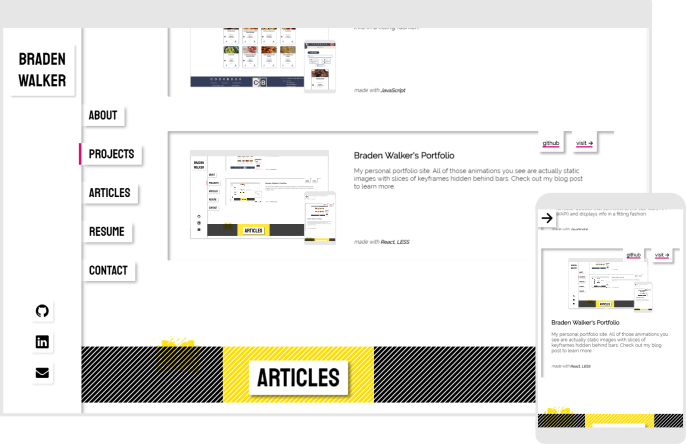
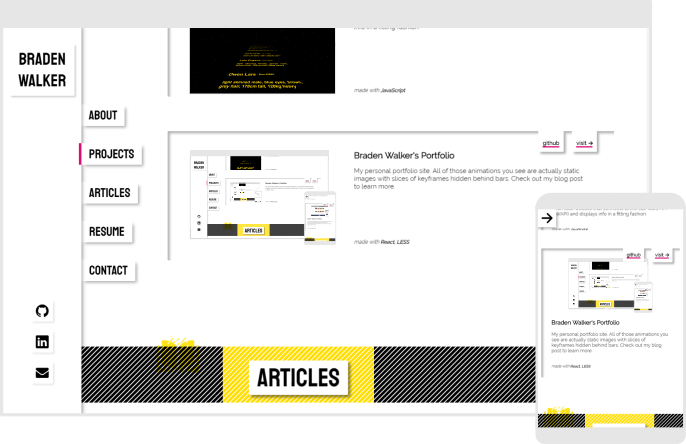
make article images cover size

Changed region(s): [[0.2755, 0.0586, 0.4898, 0.2342], [0.3367, 0.3514, 0.398, 0.3806], [0.8571, 0.5856, 0.8878, 0.6149]]

diff --git a/braden-walker-portfolio/src/resources/resourceArrays.js b/braden-walker-portfolio/src/resources/resourceArrays.js
@@ -1,7 +1,14 @@
 import cookbook from './project_images/cookbook.png';
+import notes from './project_images/notes.png';
 import portfolio from './project_images/portfolio.png';
+import starWars from './project_images/starWars.png';
+import monaLisa from './project_images/monaLisa.png';
 
 import article from './article_images/article.jpg';
+import brain from './article_images/brain.jpg';
+import business_computer from './article_images/business-computer.jpg';
+import flier from './article_images/flier.jpg';
+import web_developer from './article_images/web-developer.jpg';
 
 import github from './contacts/github-logo.svg';
 import linkedin from './contacts/linkedin-logo.svg';
@@ -22,7 +29,7 @@ export const projectsArray = [
         "id": 1,
         "title": "Note Taker",
         "description": "A note taking app that lets you create, view, edit, and delete notes. Special Features include user accounts, markdown, support, searching, and sorting notes.",
-        "image": cookbook,
+        "image": notes,
         "tools": ["React", "Express", "MongoDB"],
         "github": "https://github.com/Bradiowave/back-end-project-week",
         "visit": "https://note-taker.netlify.com/",
@@ -32,7 +39,7 @@ export const projectsArray = [
         "id": 2,
         "title": "Graph Mona Lisa",
         "description": "This program creates a graph with random vertices. The position of each vertex determines its color, which match da Vinci's famous painting, the \"Mona Lisa\".",
-        "image": cookbook,
+        "image": monaLisa,
         "tools": ["Python"],
         "github": "https://github.com/Bradiowave/Sprint-Challenge--Graphs/tree/master/graph_shortest_path",
         "visit": null,
@@ -42,7 +49,7 @@ export const projectsArray = [
         "id": 3,
         "title": "Star Wars API Viewer",
         "description": "A fun little website that connects to the star wars API (SWAPI) and displays info in a fitting fashion.",
-        "image": cookbook,
+        "image": starWars,
         "tools": ["JavaScript"],
         "github": "https://github.com/Bradiowave/Sprint-Challenge---React",
         "visit": null,
@@ -73,7 +80,7 @@ export const articlesArray = [
         "id": 1,
         "title": "This Article Has a Really Long Title, and There's Nothing You Can Do To Stop It",
         "description": "Lorem ipsum dolor sit amet, consectetur adipiscing elit, sed do eiusmod",
-        "image": article,
+        "image": brain,
         "date": "December 13, 2018",
         "read": "https://braden-blog.netlify.com/posts/lambda-labs-sprint-challenge-5/",
     },
@@ -82,7 +89,7 @@ export const articlesArray = [
         "id": 2,
         "title": "Short Test",
         "description": "This blog post has a short description.",
-        "image": article,
+        "image": business_computer,
         "date": "December 12, 2018",
         "read": "https://braden-blog.netlify.com/posts/lambda-labs-sprint-challenge-5/",
     },
@@ -91,7 +98,7 @@ export const articlesArray = [
         "id": 3,
         "title": "These are all just placeholders",
         "description": "They aren't real articles",
-        "image": article,
+        "image": flier,
         "date": "December 11, 2018",
         "read": "https://braden-blog.netlify.com/posts/lambda-labs-sprint-challenge-5/",
     },
@@ -100,7 +107,7 @@ export const articlesArray = [
         "id": 4,
         "title": "Article Title",
         "description": "Article excerpt",
-        "image": article,
+        "image": web_developer,
         "date": "December 10, 2018",
         "read": "https://braden-blog.netlify.com/posts/lambda-labs-sprint-challenge-5/",
     },

diff --git a/braden-walker-portfolio/src/components/Articles.js b/braden-walker-portfolio/src/components/Articles.js
@@ -43,7 +43,7 @@ class Articles extends Component {
 
                         <div key={project.id} className="article-sticker">
 
-                            <img className="article-image" src={project.image} alt={project.title} />
+                            <div className="article-image" style={{backgroundImage: `url(${project.image})`}} />
 
                             <div className="text">
 

diff --git a/braden-walker-portfolio/src/styles/css/index.css b/braden-walker-portfolio/src/styles/css/index.css
@@ -1341,8 +1341,9 @@ html {
 #articles-container .articles-content-container .article-sticker .article-image {
   width: 100%;
   max-width: 230px;
-  height: auto;
+  height: 200px;
   margin-top: 10px;
+  background-size: cover;
 }
 #articles-container .articles-content-container .article-sticker .text {
   width: 100%;

diff --git a/braden-walker-portfolio/src/styles/less/articles.less b/braden-walker-portfolio/src/styles/less/articles.less
@@ -180,8 +180,9 @@
             .article-image {
                 width: 100%;
                 max-width: 230px;
-                height: auto;
+                height: 200px;
                 margin-top: 10px;
+                background-size: cover;
             }
 
             .text {
